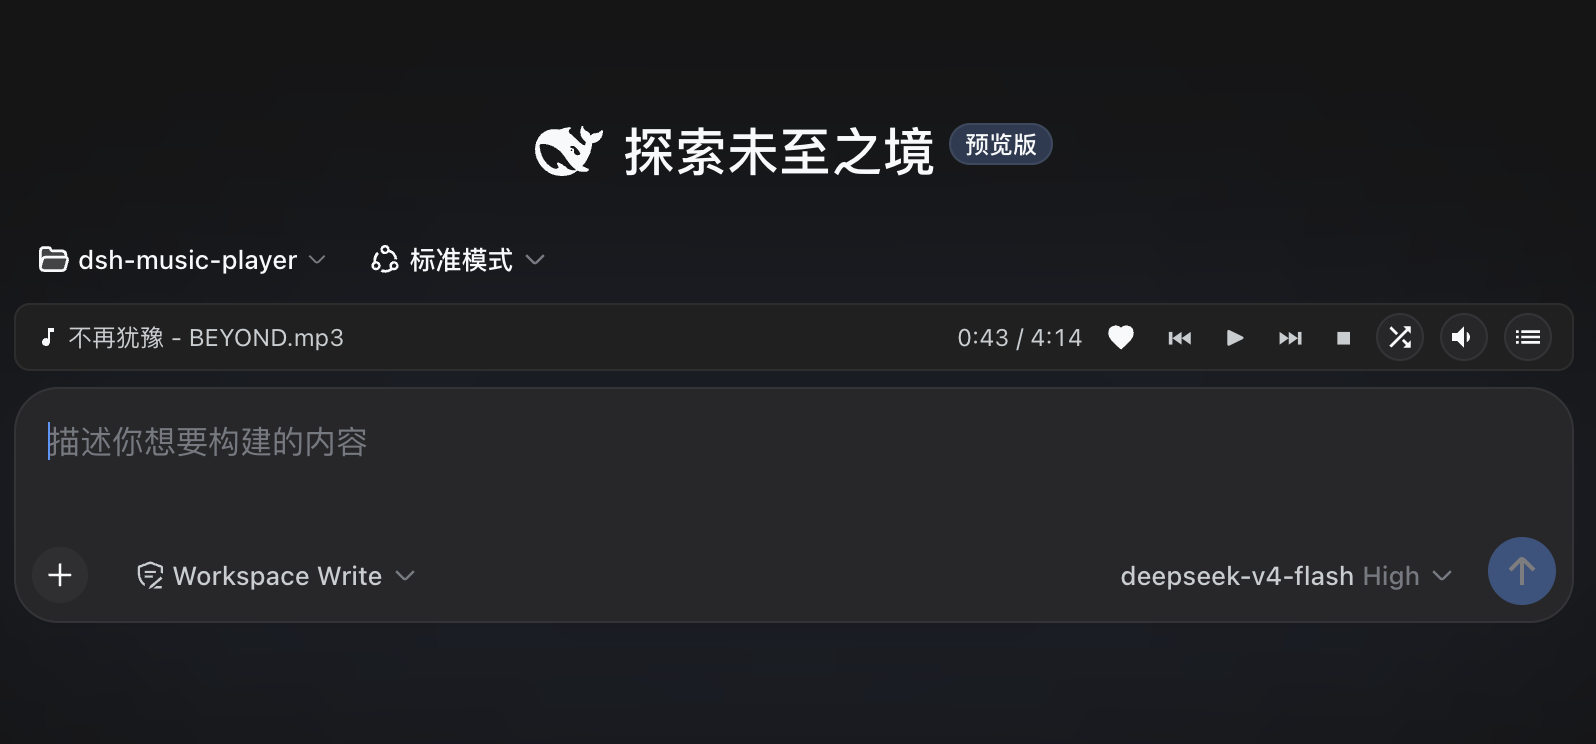
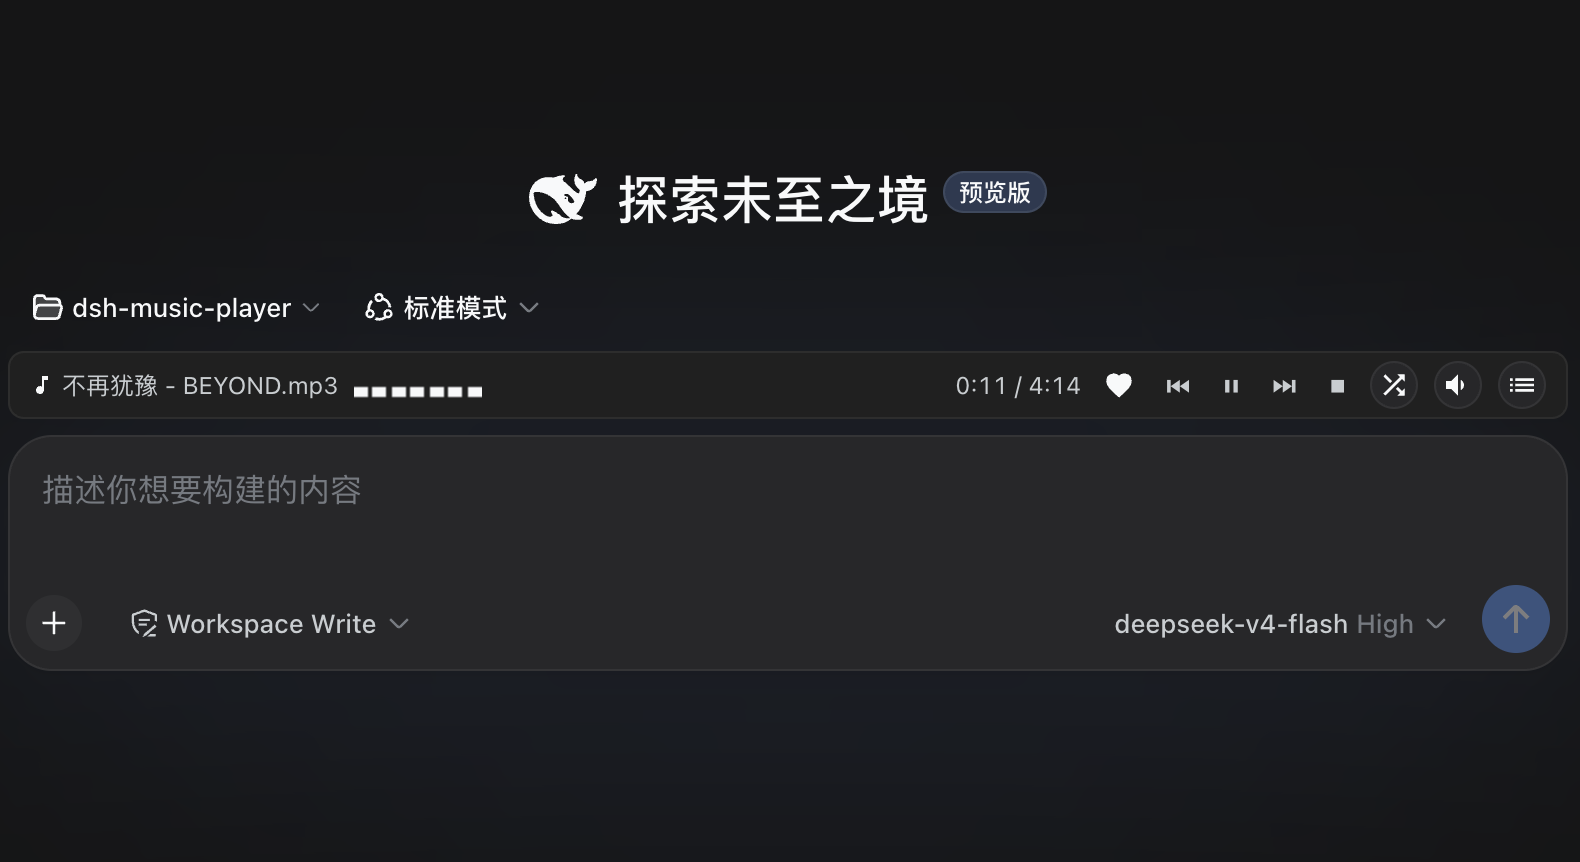
docs: 更新图片和readme文档

diff --git a/README.md b/README.md
@@ -2,7 +2,7 @@
 
 [![Awesome DSH Plugin](https://awesome-dsh-plugin.com/badge.svg)](https://awesome-dsh-plugin.com)
 
-DeepSeek Harness 本地音乐 + AI 讲书插件（bundle）。
+DeepSeek Harness 本地音乐/小说播放插件。
 
 写代码写累了、想摸鱼又不想切窗口？这个插件就是你的**摸鱼神器**——直接在 DeepSeek Harness 的网页里塞进一个本地音乐播放器：扫一下你电脑上的音乐目录（默认 `~/Music`）就能在浏览器里听歌，带播放条和可拖拽的播放面板，还能自己建歌单。
 
